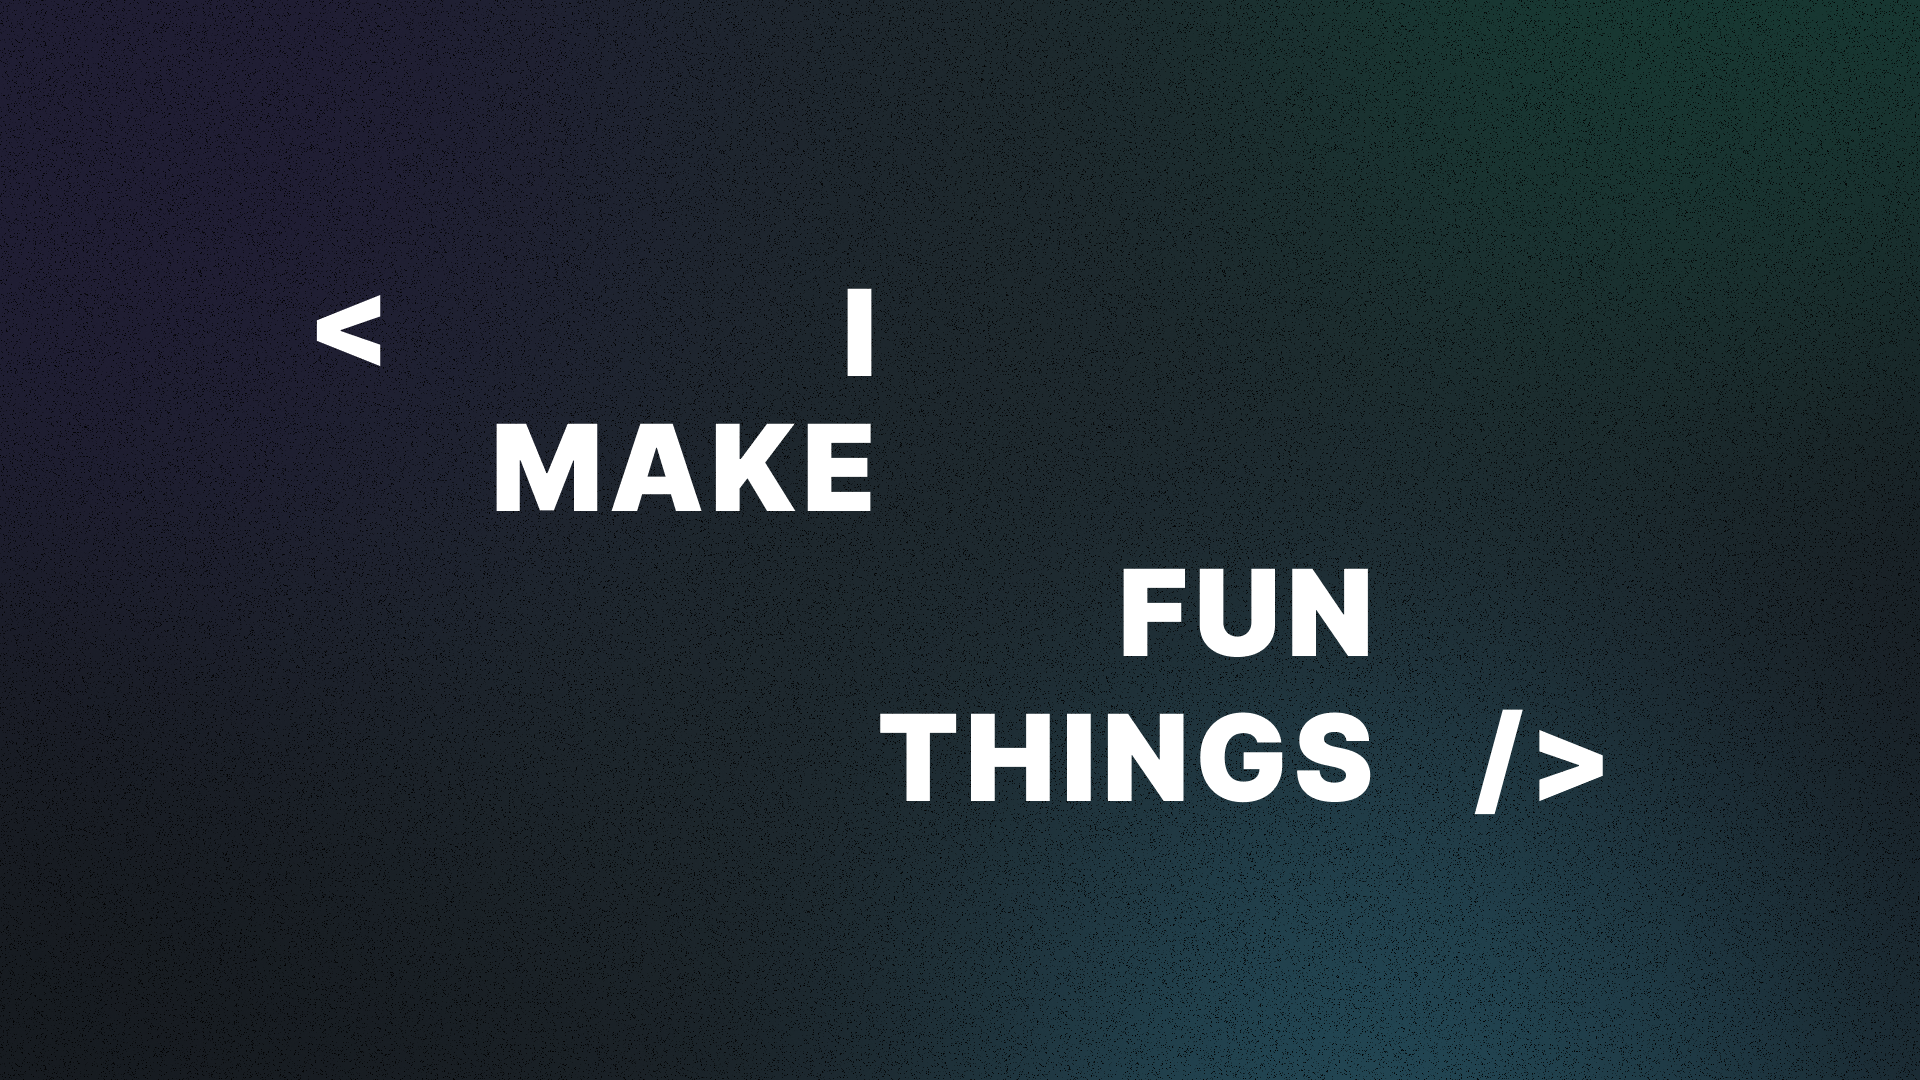
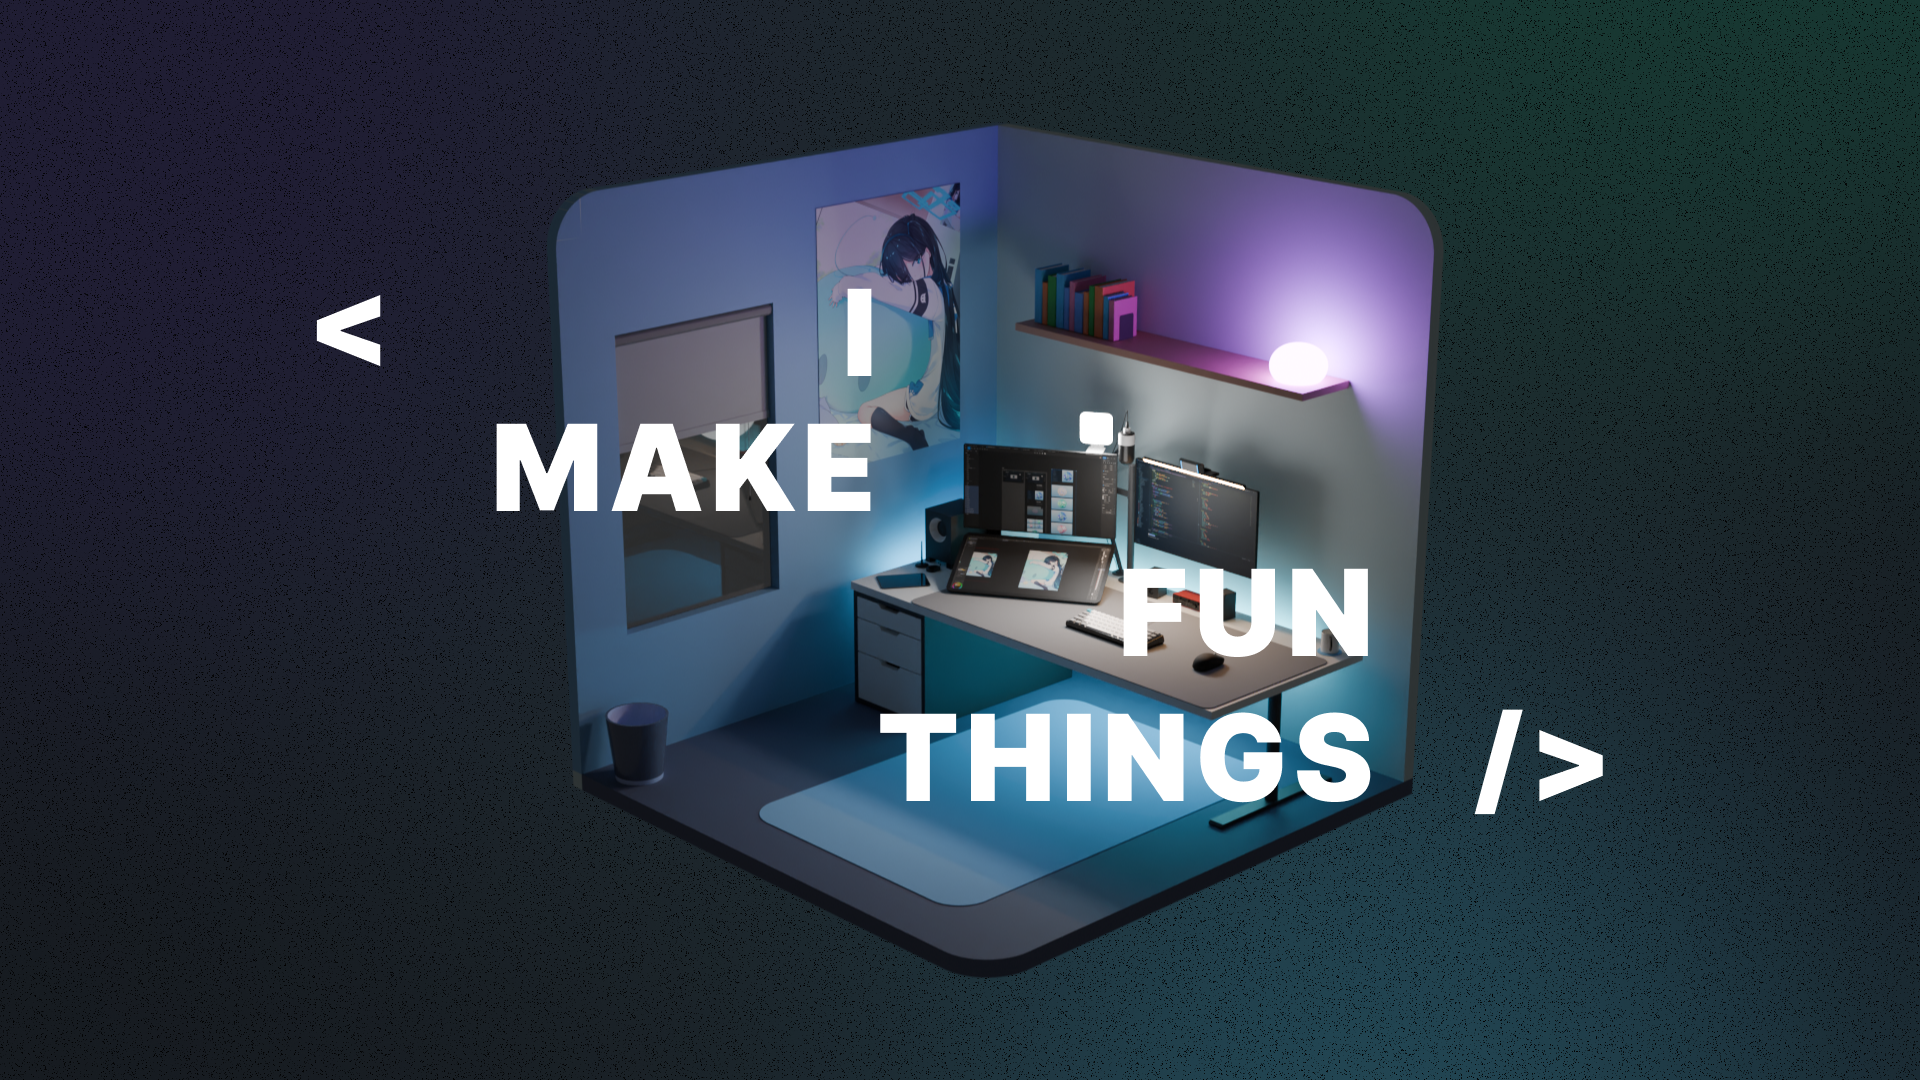
Implemented 404 page

Changed region(s): [[0.2812, 0.0917, 0.75, 0.9167]]

diff --git a/src/experience/World/missing/Missing.js b/src/experience/World/missing/Missing.js
@@ -1,0 +1,96 @@
+import * as THREE from 'three'
+import { TextGeometry } from 'three/examples/jsm/geometries/TextGeometry.js'
+
+import Experience from "../../Experience.js"
+
+import plateVertex from '../../shaders/thumbnail/vertex.glsl'
+import plateFragment from '../../shaders/thumbnail/fragment.glsl'
+
+
+export default class NotFound {
+    constructor(){
+        this.experience = new Experience()
+        this.scene = this.experience.notFoundScene
+        this.camera = this.experience.camera.notFoundInstance
+        this.resources = this.experience.resources
+        this.time = this.experience.time
+        this.sizes = this.experience.sizes
+        this.cursor = this.experience.cursor
+
+        this.setData()
+        this.setModel()
+        this.update()
+    }
+
+    setData() {
+        this.thumbnailTextures = []
+
+        this.missingImage = {
+            texture: this.resources.items.missing, 
+            lineOne: '<   OH NO!',
+            lineTwo: '       PAGE NOT',
+            lineThree: 'FOUND    />',
+            name: 'stray'
+        }
+    }
+
+    setModel(){
+        this.geometry = new THREE.PlaneGeometry(7, 4.5, 64, 64)
+        this.textMaterial = new THREE.MeshBasicMaterial()
+        this.interBlack = this.resources.items.interBlack
+
+        this.lineOneGeo = new TextGeometry(this.missingImage.lineOne, {
+            font: this.interBlack,
+            size: .4,
+            depth: 0,
+            curveSegments: 12,
+        })
+        this.lineTwoGeo = new TextGeometry(this.missingImage.lineTwo, {
+            font: this.interBlack,
+            size: .4,
+            depth: 0,
+            curveSegments: 12,
+        })
+        this.lineThreeGeo = new TextGeometry(this.missingImage.lineThree, {
+            font: this.interBlack,
+            size: .4,
+            depth: 0,
+            curveSegments: 12,
+        })
+
+        this.lineOne = new THREE.Mesh(this.lineOneGeo, this.textMaterial)
+        this.lineTwo = new THREE.Mesh(this.lineTwoGeo, this.textMaterial)
+        this.lineThree = new THREE.Mesh(this.lineThreeGeo, this.textMaterial)
+
+        this.lineOne.position.set(-4, .5 , 4)
+        this.lineTwo.position.set(-4, -.1 , 4)
+        this.lineThree.position.set(.8, -.8 , 4)
+
+        this.material = new THREE.ShaderMaterial({
+            vertexShader: plateVertex,
+            fragmentShader: plateFragment,
+            uniforms: {
+                uTime: new THREE.Uniform(0),
+                uTexture: new THREE.Uniform(this.missingImage.texture),
+                uTextureSize: new THREE.Uniform(new THREE.Vector2(1000, 640)),
+                uPlaneSize: new THREE.Uniform(new THREE.Vector2(7, 4.5))
+                
+            },
+            transparent: true,
+        })
+        this.mesh = new THREE.Mesh(this.geometry, this.material)
+        this.mesh.rotation.z = Math.PI * .02
+
+        this.group = new THREE.Group()
+
+        this.group.add(this.mesh, this.lineOne, this.lineTwo, this.lineThree)
+        this.scene.add(this.group)
+    }
+
+    update(){
+        this.group.position.x = (this.group.position.x + ((this.cursor.cursorX / this.sizes.width - .5) - this.group.position.x) * .02)
+
+        this.group.position.y = (this.group.position.y - ((this.cursor.cursorY / this.sizes.height - .5) + this.group.position.y) * .02)
+    }
+
+}

diff --git a/src/experience/Renderer.js b/src/experience/Renderer.js
@@ -16,6 +16,7 @@ export default class Renderer{
         this.arcaneScene = this.experience.arcaneScene
         this.nebulaScene = this.experience.nebulaScene
         this.angineScene = this.experience.angineScene
+        this.notFoundScene = this.experience.notFoundScene
 
         this.camera = this.experience.camera
 
@@ -322,6 +323,37 @@ export default class Renderer{
         }
     }
 
+    renderNotFoundScene(){
+        this.notFoundElement = document.getElementById('missing-experience')
+
+        if(this.notFoundElement){
+            const { left, right, top, bottom, width, height } = this.notFoundElement.getBoundingClientRect()
+    
+            const isOffscreen =
+            bottom < 0 ||
+            top > this.instance.domElement.clientHeight ||
+            right < 0 ||
+            left > this.instance.domElement.clientWidth
+    
+            if ( isOffscreen ) {
+    
+                return
+    
+            }
+    
+            this.camera.notFoundInstance.aspect = width / height;
+            this.camera.notFoundInstance.updateProjectionMatrix()
+    
+            const positiveYUpBottom = this.instance.domElement.clientHeight - bottom
+            this.instance.setScissor( left, positiveYUpBottom, width, height )
+            this.instance.setViewport( left, positiveYUpBottom, width, height )
+    
+            this.instance.render( this.notFoundScene, this.camera.notFoundInstance )
+        }else{
+            this.notFoundElement = document.getElementById('missing-experience')
+        }
+    }
+
     update(){
         this.homeCheck = document.getElementById('home-experience')
         this.aboutCheck = document.getElementById('about-experience')
@@ -332,6 +364,7 @@ export default class Renderer{
         this.arcaneCheck = document.getElementById('arcane-experience')
         this.nebulaCheck = document.getElementById('nebula-experience')
         this.angineCheck = document.getElementById('angine-experience')
+        this.notFoundCheck = document.getElementById('missing-experience')
 
 
         if(this.homeCheck){
@@ -361,6 +394,9 @@ export default class Renderer{
         }
         if(this.angineCheck){
             this.renderAngineScene()
+        }
+        if(this.notFoundCheck){
+            this.renderNotFoundScene()
         }
     }
 }

diff --git a/src/experience/Camera.js b/src/experience/Camera.js
@@ -17,6 +17,7 @@ export default class Camera {
         this.arcaneScene = this.experience.arcaneScene
         this.nebulaScene = this.experience.nebulaScene
         this.angineScene = this.experience.angineScene
+        this.notFoundScene = this.experience.notFoundScene
         
         this.canvas = this.experience.canvas
 
@@ -60,6 +61,10 @@ export default class Camera {
         this.angineInstance = new THREE.PerspectiveCamera(35, this.sizes.width / this.sizes.height, 0.1, 100)
         this.angineInstance.position.set(0, 0, 12)
         this.angineScene.add(this.angineInstance)
+
+        this.notFoundInstance = new THREE.PerspectiveCamera(35, this.sizes.width / this.sizes.height, 0.1, 100)
+        this.notFoundInstance.position.set(0, 0, 12)
+        this.notFoundScene.add(this.notFoundInstance)
     };
 
     // setControls(){
@@ -77,6 +82,7 @@ export default class Camera {
         this.arcaneInstance.aspect = this.sizes.width / this.sizes.height
         this.nebulaInstance.aspect = this.sizes.width / this.sizes.height
         this.angineInstance.aspect = this.sizes.width / this.sizes.height
+        this.notFoundInstance.aspect = this.sizes.width / this.sizes.height
 
         this.homeInstance.updateProjectionMatrix()
         this.aboutInstance.updateProjectionMatrix()
@@ -87,6 +93,7 @@ export default class Camera {
         this.arcaneInstance.updateProjectionMatrix()
         this.nebulaInstance.updateProjectionMatrix()
         this.angineInstance.updateProjectionMatrix()
+        this.notFoundInstance.updateProjectionMatrix()
     };
 
     update(){

diff --git a/src/experience/World/World.js b/src/experience/World/World.js
@@ -2,6 +2,7 @@ import Experience from "../Experience.js"
 import HomeThumbnail from "./home/HomeThumbnail.js"
 import AboutScroll from './about/AboutScroll.js'
 import ArchivesScroll from './archives/ArchivesScroll.js'
+import MissingExperience from './missing/Missing.js'
 
 export default class World{
     constructor(){
@@ -14,6 +15,7 @@ export default class World{
             this.homeThumbnails = new HomeThumbnail()
             this.aboutScroll = new AboutScroll()
             this.archivesScroll = new ArchivesScroll()
+            this.missingExperience = new MissingExperience()
         })
     }
 
@@ -27,6 +29,7 @@ export default class World{
         this.arcaneCheck = document.getElementById('arcane-experience')
         this.nebulaCheck = document.getElementById('nebula-experience')
         this.angineCheck = document.getElementById('angine-experience')
+        this.notFoundCheck = document.getElementById('missing-experience')
         
         if(this.homeCheck && this.homeThumbnails){
             this.homeThumbnails.update()
@@ -56,6 +59,10 @@ export default class World{
         }
         if(this.angineCheck){
             this.homeThumbnails.currentIntersect = null
+        }
+        if(this.notFoundCheck && this.missingExperience){
+            this.homeThumbnails.currentIntersect = null
+            this.missingExperience.update()
         }
     }
 }

diff --git a/src/pages/NotFound.vue b/src/pages/NotFound.vue
@@ -1,0 +1,17 @@
+<template>
+    <div>
+        <div id="missing-experience" class="missing-experience"></div>
+
+        <p class="home-intro text-light-gray caption-light intro-copy">I’M A CREATIVE DEVELOPER WHO BUILD DIGITAL EXPERIENCES.</p>
+        <PrimaryButton 
+            id="missing-button"
+            class="missing-button"
+            button-text="RETURN HOME"
+            button-link="/"
+        />
+    </div>
+</template>
+
+<script setup>
+import PrimaryButton from '@/components/PrimaryButton.vue'
+</script>

diff --git a/src/styles/_archives.scss b/src/styles/_archives.scss
@@ -7,6 +7,22 @@
     z-index: -1;
 }
 
+.missing-experience{
+    position: fixed;
+    width: 100%;
+    height: 100%;
+    top: 0;
+    left: 0;
+    z-index: -1;
+}
+
+.missing-button{
+    position: absolute;
+    left: 50%;
+    bottom: 200px;
+    translate: -50% 0%;
+}
+
 .archives-container{
     padding: 0px 60px;
 }

diff --git a/src/styles/style.css b/src/styles/style.css
@@ -559,6 +559,22 @@ footer {
   z-index: -1;
 }
 
+.missing-experience {
+  position: fixed;
+  width: 100%;
+  height: 100%;
+  top: 0;
+  left: 0;
+  z-index: -1;
+}
+
+.missing-button {
+  position: absolute;
+  left: 50%;
+  bottom: 200px;
+  translate: -50% 0%;
+}
+
 .archives-container {
   padding: 0px 60px;
 }

diff --git a/src/experience/Experience.js b/src/experience/Experience.js
@@ -44,6 +44,7 @@ export default class Experience{
         this.arcaneScene = new THREE.Scene()
         this.nebulaScene = new THREE.Scene()
         this.angineScene = new THREE.Scene()
+        this.notFoundScene = new THREE.Scene()
 
         this.camera = new Camera()
         this.renderer = new Renderer()

diff --git a/src/plugins/router.js b/src/plugins/router.js
@@ -50,6 +50,11 @@ const routes = [
         path: '/angine',
         name: 'angine',
         component: () => import('@/pages/Angine.vue')
+    },
+    {
+        path: '/:pathName(.*)',
+        name: 'notFound',
+        component: () => import('@/pages/NotFound.vue')
     }
 ]
 

diff --git a/src/experience/World/home/HomeThumbnail.js b/src/experience/World/home/HomeThumbnail.js
@@ -1,5 +1,4 @@
 import router from '../../../plugins/router.js'
-import { onBeforeRouteLeave } from 'vue-router'
 
 import * as THREE from 'three'
 import { TextGeometry } from 'three/examples/jsm/geometries/TextGeometry.js'

diff --git a/src/experience/sources.js b/src/experience/sources.js
@@ -129,4 +129,9 @@ export default [
         type: 'texture',
         path: '/archives/vesal.png'
     },
+    {
+        name: 'missing',
+        type: 'texture',
+        path: '/ohNo.png'
+    },
 ]
